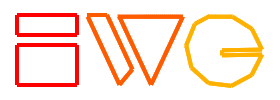
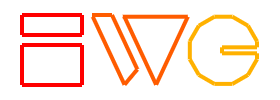
fix: symmetry

diff --git a/src/content/articles/i-like-turtles.md b/src/content/articles/i-like-turtles.md
@@ -5,7 +5,10 @@ tags:
 - turtle
 - indieweb
 date: 2025-06-17T14:35:00Z
+updated: 2025-06-25
 ---
+
+> Updated the code to improve the symmetry of the letter "C"
 
 [Angelo](https://ragt.ag) added a [Turtle interpreter](https://ragt.ag/turtle) to his site. Here's my attempt at recreating
 the [IndieWeb logo](https://indieweb.org/logo) with it:
@@ -28,15 +31,12 @@ right 180
 setcolor #FF0000
 pendown
 repeat 2 [ forward 60 right 90 forward 20 right 90 ]
-
 penup
 right 90
 forward 30
 left 90
-
 pendown
 repeat 2 [ forward 60 right 90 forward 40 right 90 ]
-
 penup
 left 90
 forward 30
@@ -52,33 +52,30 @@ right 65
 forward 20
 right 115
 forward 75
-
 penup
 right 115
 forward 30
-
 pendown
 forward 65
 right 115
 forward 75
 right 130
 forward 75
-
 penup
 right 115
 forward 90
 
 setcolor #ffb100
 pendown
-repeat 3 [ forward 23 right 32 ]
-right 83
-forward 40
+repeat 3 [ forward 18 right 30 ]
+forward 6
+right 90
+forward 35
 left 90
-forward 5
+forward 6
 left 90
-forward 40
-right 83
-repeat 6 [ right 35 forward 23 ]
-right 40
-forward 17
+forward 35
+right 90
+forward 6
+repeat 8 [ right 30 forward 18 ]
 ```
